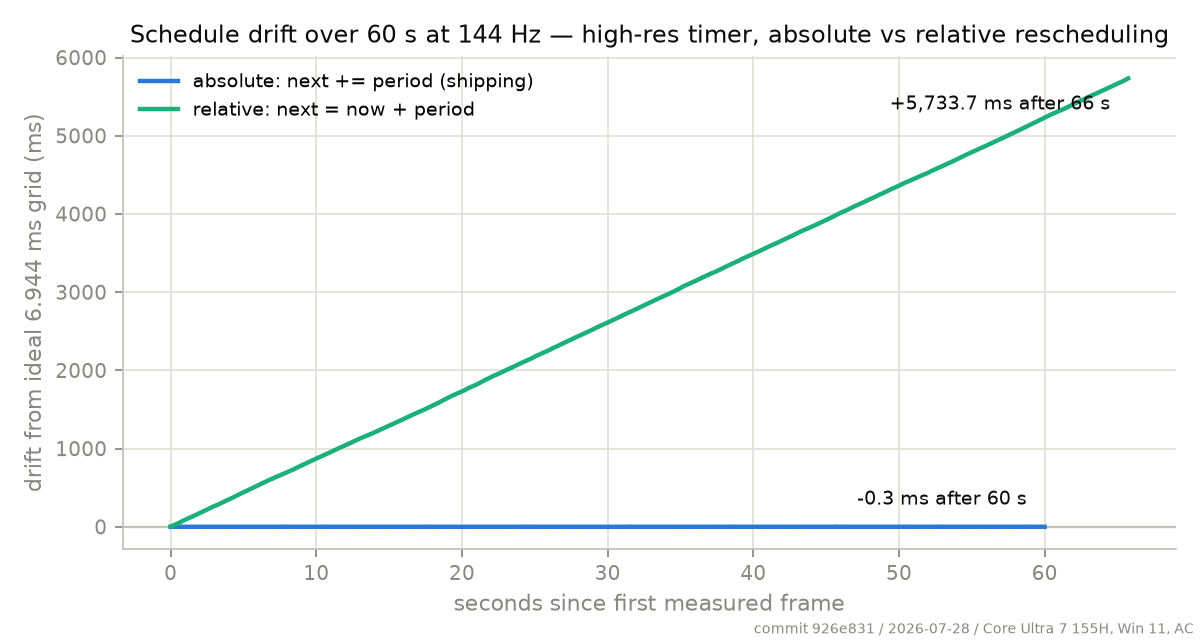
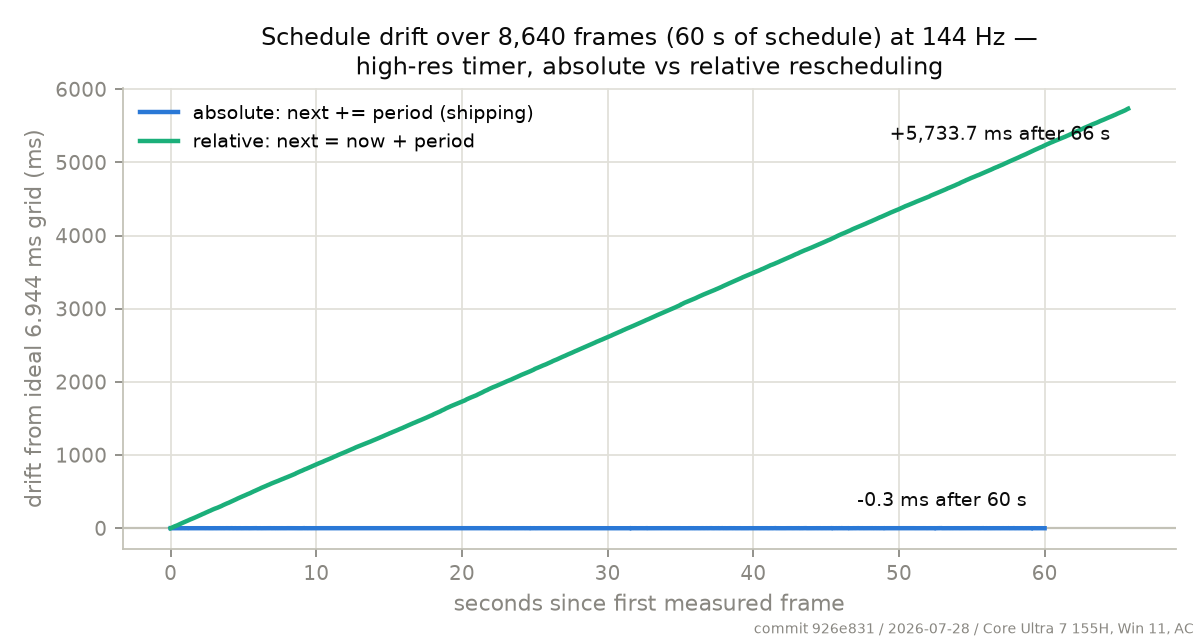
fix: runner truncation guards and figure caption precision (review follow-up)

Changed region(s): [[0.0, 0.0312, 0.9867, 0.7812], [0.1233, 0.75, 0.8942, 0.8438]]

diff --git a/bench/run_plots.py b/bench/run_plots.py
@@ -13,6 +13,7 @@ disk if the plot step fails.
 tails are noise.
 """
 import argparse
+import re
 import subprocess
 import sys
 import time
@@ -21,9 +22,14 @@ from pathlib import Path
 HIST_STRATEGIES = ["sleep", "timer", "timer_spin"]
 DRIFT_POLICIES = ["absolute", "relative"]
 RUN_TIMEOUT_S = 300  # slowest cell is hist-sleep (~90 s); drift-relative ~74 s
+BENCH_RE = re.compile(r"bench: frames=(\d+)")
 
 
-def run_cell(name: str, cmd: list, out: Path) -> None:
+def run_cell(name: str, cmd: list, out: Path, expected_frames: int) -> None:
+    csv_path = out / f"{name}.csv"
+    if csv_path.exists():
+        sys.exit(f"FATAL: {name}.csv already exists in {out} -- refusing to "
+                  f"overwrite prior run data")
     txt_path = out / f"{name}.txt"
     print(f"[{name}] {' '.join(cmd)}", flush=True)
     with open(txt_path, "w") as txt:
@@ -31,6 +37,18 @@ def run_cell(name: str, cmd: list, out: Path) -> None:
                                 timeout=RUN_TIMEOUT_S)
     if result.returncode != 0:
         sys.exit(f"FATAL: {name} exited {result.returncode}; see {txt_path}")
+    # cube exits 0 when its window closes mid-bench, so a nonzero returncode
+    # alone can't catch a truncated run -- confirm the bench: line is present
+    # AND its frame count matches what we asked for.
+    text = txt_path.read_text()
+    m = BENCH_RE.search(text)
+    if not m:
+        sys.exit(f"FATAL: {name} produced no bench: line -- run truncated? "
+                  f"see {txt_path}")
+    actual_frames = int(m.group(1))
+    if actual_frames != expected_frames:
+        sys.exit(f"FATAL: {name} reported frames={actual_frames}, expected "
+                  f"{expected_frames} -- run truncated? see {txt_path}")
 
 
 def main() -> None:
@@ -55,14 +73,14 @@ def main() -> None:
         name = f"hist-{strategy}-144"
         run_cell(name, [args.exe, "--fps=144", f"--pace={strategy}",
                         f"--bench-frames={args.hist_frames}",
-                        f"--log={out / (name + '.csv')}"], out)
+                        f"--log={out / (name + '.csv')}"], out, args.hist_frames)
 
     for policy in DRIFT_POLICIES:
         name = f"drift-{policy}-144"
         run_cell(name, [args.exe, "--fps=144", "--pace=timer",
                         f"--resched={policy}",
                         f"--bench-frames={args.drift_frames}",
-                        f"--log={out / (name + '.csv')}"], out)
+                        f"--log={out / (name + '.csv')}"], out, args.drift_frames)
 
     print(f"raw results in {out}", flush=True)
     if not args.no_plot:

diff --git a/bench/plot_frames.py b/bench/plot_frames.py
@@ -100,12 +100,14 @@ def fig_histogram(raw: Path, out_path: Path, footer: str) -> None:
 
     fig, ax = plt.subplots(figsize=(7.5, 4.3), dpi=160)
     n = 0
+    ns = []
     overflow_notes = []
     direct_labels = []  # (short_name, anchor_x_ms, height_frac)
     for name, label, short, color in series:
         starts = load_starts(raw, name)
         deltas = sorted((b - a) / 1e6 for a, b in zip(starts, starts[1:]))
         n = len(deltas)
+        ns.append(n)
         p50, p99 = percentile(deltas, 0.50), percentile(deltas, 0.99)
         overflow = sum(1 for d in deltas if d > HIST_XMAX_MS)
         print(f"hist {name}: n={n} p50={p50:.3f}ms p99={p99:.3f}ms "
@@ -125,6 +127,10 @@ def fig_histogram(raw: Path, out_path: Path, footer: str) -> None:
             direct_labels.append((short, min(p99 + 0.3, HIST_XMAX_MS - 0.5), 0.68))
         else:  # sleep_for: label rides the tick-wake cluster
             direct_labels.append((short, min(p99, HIST_XMAX_MS - 1.0), 0.80))
+
+    if len(set(ns)) != 1:
+        sys.exit(f"FATAL: series have mismatched interval counts {ns} -- "
+                 f"expected identical n across all three histogram cells")
 
     ax.set_yscale("log")
     ax.set_ylim(bottom=0.8)
@@ -146,8 +152,8 @@ def fig_histogram(raw: Path, out_path: Path, footer: str) -> None:
 
     ax.set_xlabel("frame start-to-start interval (ms)")
     ax.set_ylabel("frames (log scale)")
-    ax.set_title(f"Frame-time distribution at 144 Hz — {n:,} frames per "
-                 f"strategy, 500-frame warmup dropped",
+    ax.set_title(f"Frame-time distribution at 144 Hz — {n:,} intervals per "
+                 f"strategy,\n500-frame warmup dropped",
                  fontsize=11, color=INK)
     handles, labels = ax.get_legend_handles_labels()
     order = [2, 1, 0]  # hero (timer_spin) first in the legend
@@ -181,8 +187,8 @@ def fig_drift(raw: Path, out_path: Path, footer: str) -> None:
 
     ax.set_xlabel("seconds since first measured frame")
     ax.set_ylabel("drift from ideal 6.944 ms grid (ms)")
-    ax.set_title("Schedule drift over 60 s at 144 Hz — high-res timer, "
-                 "absolute vs relative rescheduling",
+    ax.set_title("Schedule drift over 8,640 frames (60 s of schedule) at "
+                 "144 Hz —\nhigh-res timer, absolute vs relative rescheduling",
                  fontsize=11, color=INK)
     ax.legend(loc="upper left", frameon=False, fontsize=8.5)
     style_axes(ax)

diff --git a/README.md b/README.md
@@ -6,15 +6,16 @@ pacing on general-purpose OSes. The rotating cube is the demo, not the point.
 
 ![Histogram of 144 Hz frame start-to-start intervals, log count axis: the shipping timer-plus-spin pacer is a single spike at the 6.944 ms period, a bare high-res timer smears slightly around it, and naive sleep_for never lands near the period at all](docs/plots/frametime-hist-144.png)
 
-*Start-to-start frame intervals at 144 Hz (9,500 measured frames per strategy,
-log count axis). The shipping `timer_spin` pacer puts essentially every frame
-in one 50 µs bin at the 6.944 ms period. A bare high-res timer holds the
-schedule on average but hands its OS wake jitter straight to the frame times
-(p99 8.874 ms). Naive `sleep_for` never delivers a frame near the period: on
-this machine its ~7 ms sleep requests wake on the ~15.6 ms scheduler tick, so
-it alternates ~16 ms frames with immediate post-miss frames — the two
-clusters. (That same mechanism is what produces the classic comb at 15.6 ms
-multiples on stock Windows.)*
+*Start-to-start frame intervals at 144 Hz (9,499 measured intervals per
+strategy, log count axis). The shipping `timer_spin` pacer puts ≈90% of
+frames in a single 50 µs bin at the 6.944 ms period (the next-largest bin is
+far smaller). A bare high-res timer holds the schedule on average but hands
+its OS wake jitter straight to the frame times (p99 8.874 ms). Naive
+`sleep_for` never delivers a frame near the period: on this machine its ~7 ms
+sleep requests wake on the ~15.6 ms scheduler tick, so it alternates ~15 ms
+frames with immediate post-miss frames — the two clusters. (That same
+mechanism is what produces the classic comb at 15.6 ms multiples on stock
+Windows.)*
 
 ![Schedule drift over 60 seconds at 144 Hz: absolute-deadline rescheduling stays flat at zero while relative rescheduling falls linearly behind](docs/plots/drift-60s.png)
 
@@ -23,7 +24,9 @@ runs (high-res timer, 144 Hz, 8,640 measured frames), only the rescheduling
 rule differs. The absolute schedule ends 0.3 ms from ideal after 60 seconds;
 the relative one leaks every frame's work time and wake latency into the
 schedule permanently — about 0.66 ms per frame, 5.7 s behind after a minute,
-while reporting zero missed deadlines the whole way.*
+while reporting zero missed deadlines the whole way. The relative run's
+schedule stretched enough that delivering those 60 seconds' worth of frames
+took ~65.7 s of wall time.*
 
 Regenerate both: `python bench/run_plots.py` (~7 minutes of measured runs; AC
 power, machine otherwise idle), which chains into `bench/plot_frames.py` — the
